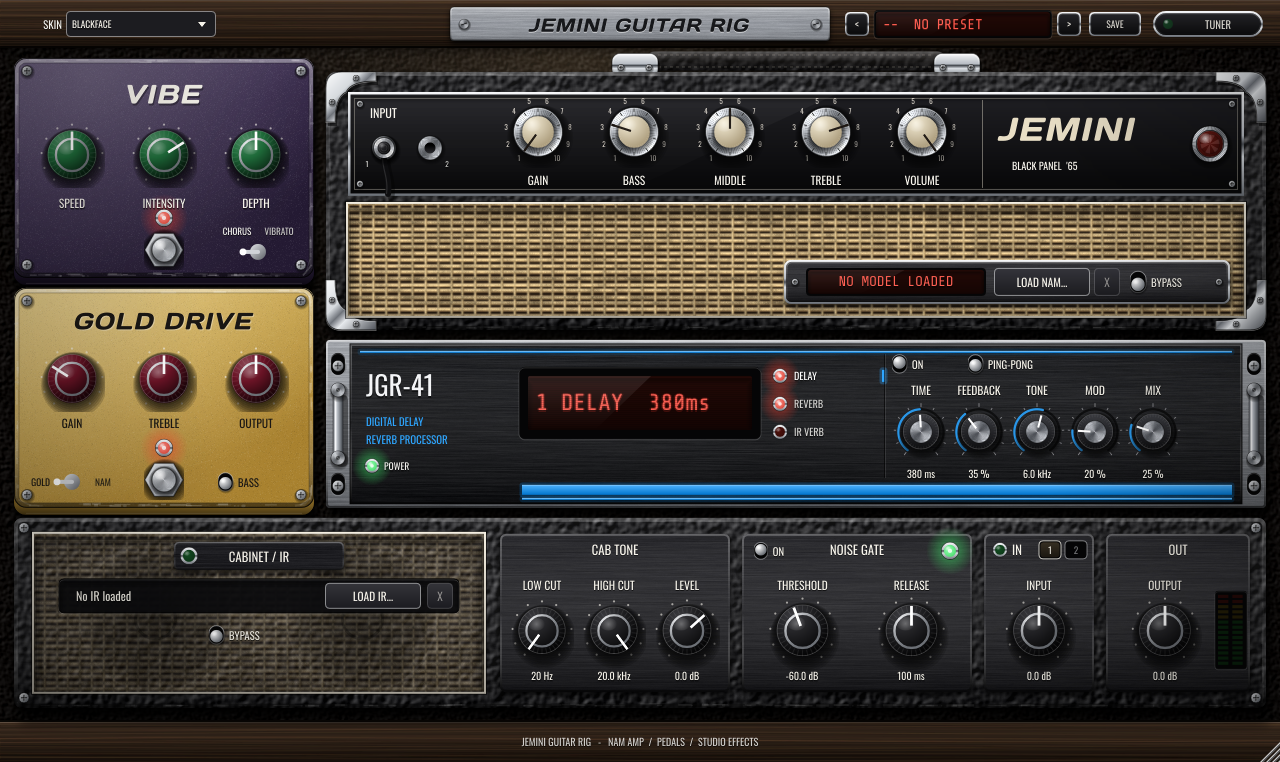
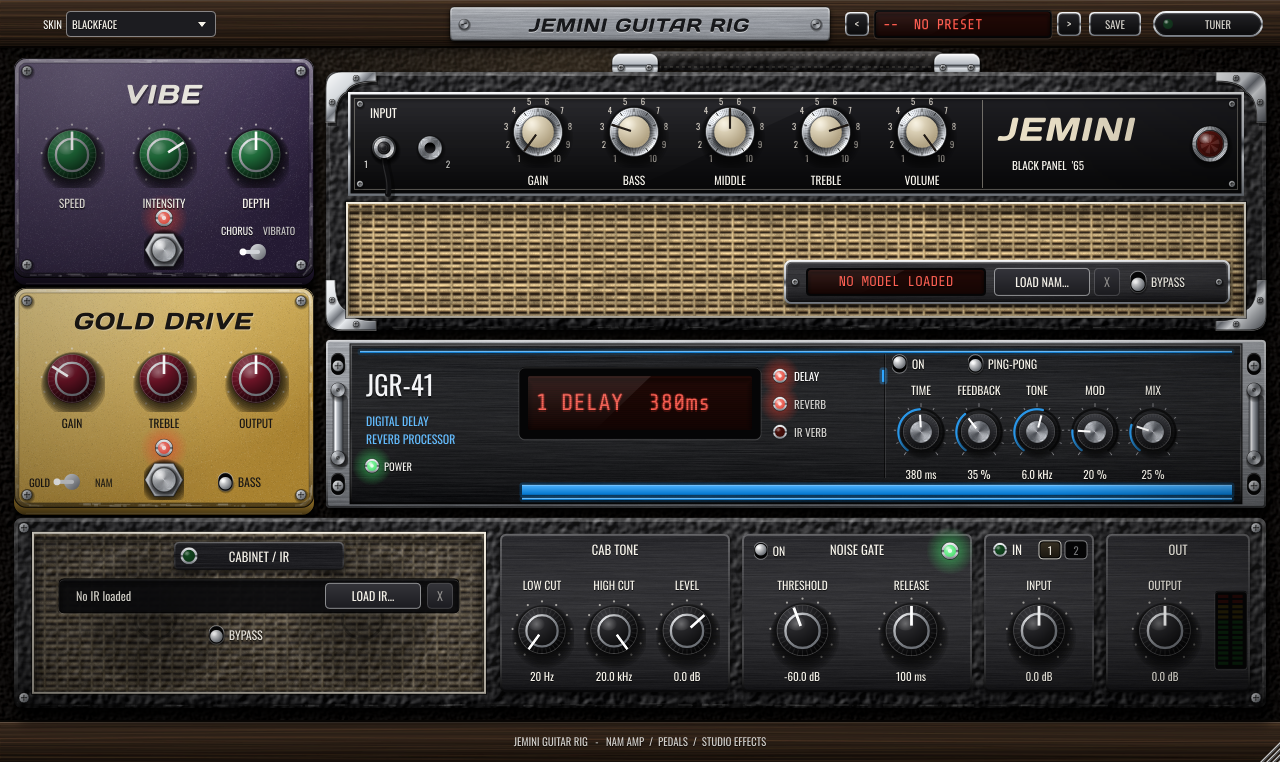
Larger small text
Amp knob numbers, input 1/2, switch labels, POWER, rack selectors and
subtitle, toggle labels, slider value read-outs, combo boxes, text
buttons (SAVE etc.), warning line and footer are 1.5-2.5 pt larger.

Claude-Session: https://claude.ai/code/session_01Xrv8MNUsFMci2LD7dNoEYZ

diff --git a/Source/UI/RigPanel.cpp b/Source/UI/RigPanel.cpp
@@ -227,7 +227,7 @@ RigPanel::RigPanel (VintageGuitarSuiteAudioProcessor& p)
     addAndMakeVisible (modelNameLabel);
 
     warningLabel.setJustificationType (juce::Justification::centred);
-    warningLabel.setFont (LnF::condensed (12.0f));
+    warningLabel.setFont (LnF::condensed (13.5f));
     warningLabel.setColour (juce::Label::textColourId, warnAmber);
     addAndMakeVisible (warningLabel);
 
@@ -1307,7 +1307,7 @@ void RigPanel::buildBackdrop()
         }
         else
         {
-            g.setFont (LnF::condensed (15.0f));
+            g.setFont (LnF::condensed (16.0f));
             LnF::drawPrintedText (g, "JEMINI GUITAR RIG   -   NAM AMP  /  PEDALS  /  STUDIO EFFECTS", bar.toFloat(),
                                   juce::Justification::centred, LnF::labelWhite.withAlpha (0.85f));
         }
@@ -1408,14 +1408,14 @@ void RigPanel::paint (juce::Graphics& g)
     g.setColour (sk.vibeText);
     LnF::drawSlantedLogo (g, "VIBE", vibeArea.withHeight (60).translated (0, 6).toFloat(), 34.0f, juce::Justification::centred);
 
-    g.setFont (LnF::condensed (14.0f));
+    g.setFont (LnF::condensed (15.5f));
     {
         const auto sw = vibeMode.getBounds();
         const bool vib = vibeMode.getToggleState();
-        g.setFont (LnF::condensed (13.5f));
-        LnF::drawPrintedText (g, "CHORUS",  juce::Rectangle<float> ((float) sw.getX() - 28.0f, (float) sw.getY() - 17.0f, 54.0f, 15.0f),
+        g.setFont (LnF::condensed (15.0f));
+        LnF::drawPrintedText (g, "CHORUS",  juce::Rectangle<float> ((float) sw.getX() - 30.0f, (float) sw.getY() - 19.0f, 58.0f, 18.0f),
                               juce::Justification::centred, LnF::labelWhite.withAlpha (vib ? 0.8f : 1.0f));
-        LnF::drawPrintedText (g, "VIBRATO", juce::Rectangle<float> ((float) sw.getRight() - 26.0f, (float) sw.getY() - 17.0f, 54.0f, 15.0f),
+        LnF::drawPrintedText (g, "VIBRATO", juce::Rectangle<float> ((float) sw.getRight() - 28.0f, (float) sw.getY() - 19.0f, 58.0f, 18.0f),
                               juce::Justification::centred, LnF::labelWhite.withAlpha (vib ? 1.0f : 0.8f));
     }
     drawLed (g, vibeLedArea, vibeOn.getToggleState(), LnF::redLed);
@@ -1451,7 +1451,7 @@ void RigPanel::paint (juce::Graphics& g)
     {
         const auto labelColour = namPedalShown ? sk.namText : sk.goldText;
         const auto sw = odType.getBounds();
-        g.setFont (LnF::condensed (14.0f));
+        g.setFont (LnF::condensed (15.5f));
         g.setColour (labelColour.withAlpha (namPedalShown ? 0.9f : 1.0f));
         g.drawText ("GOLD", juce::Rectangle<int> (sw.getX() - 40, sw.getY(), 38, sw.getHeight()), juce::Justification::centredRight, false);
         g.setColour (labelColour.withAlpha (namPedalShown ? 1.0f : 0.9f));
@@ -1741,10 +1741,10 @@ void RigPanel::drawAmpHead (juce::Graphics& g) const
         realism::specular (g, jc, 6.5f, 0.35f);
     }
 
-    g.setFont (LnF::condensed (11.0f));
+    g.setFont (LnF::condensed (13.5f));
     for (int j = 0; j < 2; ++j)
     {
-        LnF::drawPrintedText (g, juce::String (j + 1), juce::Rectangle<float> (20.0f, 14.0f).withCentre (jackCentre (j).translated (j == 0 ? -17.0f : 17.0f, 16.0f)),
+        LnF::drawPrintedText (g, juce::String (j + 1), juce::Rectangle<float> (22.0f, 17.0f).withCentre (jackCentre (j).translated (j == 0 ? -18.0f : 18.0f, 16.0f)),
                               juce::Justification::centred, LnF::labelWhite.withAlpha (j == selectedInput ? 1.0f : 0.8f));
     }
 
@@ -1758,7 +1758,7 @@ void RigPanel::drawAmpHead (juce::Graphics& g) const
     LnF::drawSlantedLogo (g, "JEMINI", juce::Rectangle<float> (logoX + 18.0f, panel.getY() + 10.0f, 230.0f, 54.0f),
                           42.0f, juce::Justification::centredLeft);
     g.setColour (sk.panelText);
-    g.setFont (LnF::condensed (15.0f));
+    g.setFont (LnF::condensed (16.5f));
     g.drawText (sk.ampModelLine, juce::Rectangle<float> (logoX + 30.0f, panel.getY() + 64.0f, 200.0f, 18.0f),
                 juce::Justification::centredLeft, false);
 
@@ -1924,8 +1924,8 @@ void RigPanel::drawRack (juce::Graphics& g) const
     g.drawText ("JGR-41", logo.withHeight (48.0f).translated (0.0f, 1.5f), juce::Justification::centredLeft, false);
     g.setColour (sk.rackTitle);
     g.drawText ("JGR-41", logo.withHeight (48.0f), juce::Justification::centredLeft, false);
-    g.setColour (sk.rackAccent);
-    g.setFont (LnF::condensed (16.0f));
+    g.setColour (sk.rackAccent.brighter (0.35f));
+    g.setFont (LnF::condensed (17.5f));
     g.drawText ("DIGITAL DELAY",  logo.withTrimmedTop (52.0f).withHeight (18.0f), juce::Justification::centredLeft, false);
     g.drawText ("REVERB PROCESSOR", logo.withTrimmedTop (70.0f).withHeight (18.0f), juce::Justification::centredLeft, false);
 
@@ -1934,7 +1934,7 @@ void RigPanel::drawRack (juce::Graphics& g) const
         const bool rackOn = dlyOn.getToggleState() || revOn.getToggleState() || irvOn.getToggleState();
         const auto led = juce::Rectangle<int> (10, 10).withCentre ({ (int) logo.getX() + 6, (int) logo.getY() + 106 });
         drawLed (g, led, rackOn, juce::Colour (0xff40ff70));
-        g.setFont (LnF::condensed (14.0f));
+        g.setFont (LnF::condensed (15.5f));
         LnF::drawPrintedText (g, "POWER", juce::Rectangle<float> (logo.getX() + 18.0f, logo.getY() + 98.0f, 60.0f, 16.0f),
                               juce::Justification::centredLeft, LnF::labelWhite);
     }

diff --git a/Source/UI/JeminiLookAndFeel.cpp b/Source/UI/JeminiLookAndFeel.cpp
@@ -145,12 +145,12 @@ void JeminiLookAndFeel::drawBlackfaceKnob (juce::Graphics& g, juce::Rectangle<fl
     {
     // Numbers 1..10 printed on the panel around the knob
     g.setColour (ampKnobNumbers.withAlpha (enabled ? 0.88f : 0.4f));
-    g.setFont (condensed (juce::jmax (9.0f, r * 0.3f)));
+    g.setFont (condensed (juce::jmax (11.0f, r * 0.36f)));
     for (int n = 1; n <= 10; ++n)
     {
         const float a = start + (float) (n - 1) / 9.0f * (end - start);
         const auto p = polar (c, r * 0.9f, a);
-        g.drawText (juce::String (n), juce::Rectangle<float> (r * 0.36f, r * 0.24f).withCentre (p),
+        g.drawText (juce::String (n), juce::Rectangle<float> (r * 0.46f, r * 0.32f).withCentre (p),
                     juce::Justification::centred, false);
     }
     }
@@ -464,7 +464,7 @@ void JeminiLookAndFeel::drawButtonText (juce::Graphics& g, juce::TextButton& but
     if (button.getProperties()["style"].toString() == "presetButton")
     {
         g.setColour (cream.withAlpha (highlighted ? 1.0f : 0.85f));
-        g.setFont (condensed (button.getButtonText().length() > 1 ? 14.0f : 17.0f));
+        g.setFont (condensed (button.getButtonText().length() > 1 ? 16.0f : 18.0f));
         g.drawText (button.getButtonText(), button.getLocalBounds().translated (0, down ? 1 : 0), juce::Justification::centred, false);
         return;
     }
@@ -472,7 +472,7 @@ void JeminiLookAndFeel::drawButtonText (juce::Graphics& g, juce::TextButton& but
     if (button.getProperties()["style"].toString() == "inputSelect")
     {
         g.setColour (button.getToggleState() ? cream : silver.withAlpha (highlighted ? 0.8f : 0.5f));
-        g.setFont (condensed (14.0f));
+        g.setFont (condensed (16.0f));
         g.drawText (button.getButtonText(), button.getLocalBounds(), juce::Justification::centred, false);
         return;
     }
@@ -488,7 +488,7 @@ void JeminiLookAndFeel::drawButtonText (juce::Graphics& g, juce::TextButton& but
     if (button.getProperties()["style"].toString() == "rackSelect")
     {
         const bool selected = button.getToggleState();
-        g.setFont (condensed (15.0f));
+        g.setFont (condensed (16.5f));
         drawPrintedText (g, button.getButtonText(), button.getLocalBounds().withTrimmedLeft (2).toFloat(),
                          juce::Justification::centredLeft,
                          selected ? juce::Colours::white : labelWhite.withAlpha (highlighted ? 1.0f : 0.85f));
@@ -580,7 +580,7 @@ void JeminiLookAndFeel::drawMiniToggle (juce::Graphics& g, juce::ToggleButton& b
 
     // Label
     auto textColour = button.findColour (juce::ToggleButton::textColourId);
-    g.setFont (condensed (juce::jmin (16.0f, area.getHeight() * 0.8f)));
+    g.setFont (condensed (juce::jmin (17.5f, area.getHeight() * 0.86f)));
     drawPrintedText (g, button.getButtonText(), area.withTrimmedLeft (5.0f), juce::Justification::centredLeft,
                      highlighted ? textColour.brighter (0.3f) : textColour);
 }
@@ -697,13 +697,13 @@ void JeminiLookAndFeel::drawButtonBackground (juce::Graphics& g, juce::Button& b
 
 juce::Font JeminiLookAndFeel::getTextButtonFont (juce::TextButton&, int buttonHeight)
 {
-    return condensed (juce::jmin (17.0f, (float) buttonHeight * 0.68f));
+    return condensed (juce::jmin (18.0f, (float) buttonHeight * 0.78f));
 }
 
 juce::Label* JeminiLookAndFeel::createSliderTextBox (juce::Slider& slider)
 {
     auto* l = LookAndFeel_V4::createSliderTextBox (slider);
-    l->setFont (condensed (15.0f));
+    l->setFont (condensed (16.5f));
     l->setColour (juce::Label::outlineColourId, juce::Colours::transparentBlack);
     l->setColour (juce::Label::backgroundColourId, juce::Colours::transparentBlack);
     return l;
@@ -727,7 +727,7 @@ void JeminiLookAndFeel::drawComboBox (juce::Graphics& g, int width, int height, 
 
 juce::Font JeminiLookAndFeel::getComboBoxFont (juce::ComboBox&)
 {
-    return condensed (14.0f);
+    return condensed (16.0f);
 }
 
 //==============================================================================
